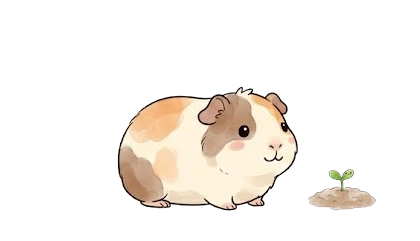
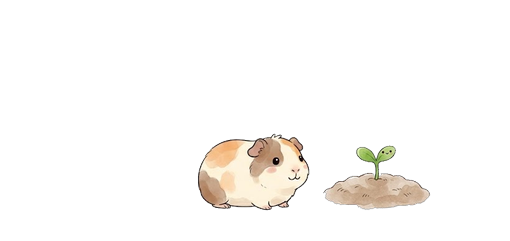
Porcellino: durante il focus la protagonista e' la carota
Il porcellino e' piu' piccolo (0,62) e la carota matura occupa quasi tutta l'altezza della finestra.

Changed region(s): [[0.2786, 0.3485, 0.8976, 0.8714]]

diff --git a/tools/compose_porcellino_growth.py b/tools/compose_porcellino_growth.py
@@ -1,61 +1,58 @@
 #!/usr/bin/env python3
-"""Compone le immagini di crescita del porcellino durante un focus: lui fermo, con la carota accanto.
+"""Compone le immagini di crescita del porcellino durante un focus: la carota che cresce, e lui accanto.
 
     python3 tools/compose_porcellino_growth.py [cartella_giardino]
 
 Legge assets/porcellino/frame1.png (il porcellino a riposo) e le cinque carote del giardino
 (<cartella>/garden_porcellino_1..5.png, sulla tela delle piantine 208x341) e scrive
-<cartella>/growth_porcellino_1..5.png: la tela del porcellino (stessa altezza e stessa linea di terra),
-allargata a destra e a sinistra di quanto serve alla carota. Il porcellino sta al centro: se la finestra si
-allarga attorno ai suoi piedi, lui non si sposta; quando guarda a sinistra l'immagine viene specchiata
-e la carota è comunque davanti a lui.
+<cartella>/growth_porcellino_1..5.png.
 
-La carota è alla stessa scala per tutti gli stadi (la matura alta quanto il porcellino) e sta sulla sua linea
-di terra, appena a destra del muso.
+Il soggetto è la carota: la matura occupa quasi tutta l'altezza della finestra, mentre il porcellino è più
+piccolo e sta a guardarla. La tela è larga abbastanza per la carota a destra e a sinistra di lui, con il
+porcellino al centro: se la finestra si allarga attorno ai suoi piedi, lui non si sposta; quando guarda a
+sinistra l'immagine viene specchiata e la carota è comunque davanti a lui.
 """
 import sys
-import numpy as np
 from PIL import Image
 
 PORCELLINO = "assets/porcellino/frame1.png"
 FOLDER = sys.argv[1] if len(sys.argv) > 1 else "assets/garden"
 GROUND_FRACTION = 0.129          # dove stanno i piedi del porcellino (dal fondo, in frazione dell'altezza)
-GAP = 6                          # spazio fra il muso e la carota
-RIPE_HEIGHT_RATIO = 1.0          # la carota matura alta quanto il porcellino
+FEET_IN_GARDEN_CANVAS = 0.0176   # e dove stanno quelli delle carote nella tela delle piantine
+RIPE_HEIGHT = 196                # px della tela del porcellino (241 di altezza): la carota matura, foglie incluse
+PIG_SCALE = 0.62                 # quanto si rimpicciolisce il porcellino rispetto al suo disegno normale
+GAP = 8                          # spazio fra il muso e la carota
 
 pig = Image.open(PORCELLINO).convert("RGBA")
-pb = pig.getbbox()
-pig_h = pb[3] - pb[1]
-carrots = []
-for i in range(1, 6):
-    img = Image.open(f"{FOLDER}/garden_porcellino_{i}.png").convert("RGBA")
-    carrots.append(img)
+H = pig.height
+W_PIG = pig.width
+pig_small = pig.resize((round(pig.width * PIG_SCALE), round(pig.height * PIG_SCALE)), Image.LANCZOS)
+pb = pig_small.getbbox()
 
-# Scala unica: la carota dell'ultimo stadio alta come il porcellino.
+carrots = [Image.open(f"{FOLDER}/garden_porcellino_{i}.png").convert("RGBA") for i in range(1, 6)]
 ripe = carrots[-1].getbbox()
-scale = RIPE_HEIGHT_RATIO * pig_h / (ripe[3] - ripe[1])
-widths = []
-scaled = []
-for img in carrots:
-    s = img.resize((round(img.width * scale), round(img.height * scale)), Image.LANCZOS)
-    scaled.append(s)
-    bb = s.getbbox()
-    widths.append(bb[2] - bb[0])
-pad = max(widths) + GAP + 6
-W, H = pig.width + 2 * pad, pig.height
+scale = RIPE_HEIGHT / (ripe[3] - ripe[1])        # stessa scala per tutti gli stadi
+scaled = [c.resize((round(c.width * scale), round(c.height * scale)), Image.LANCZOS) for c in carrots]
+carrot_w = max(s.getbbox()[2] - s.getbbox()[0] for s in scaled)
+
+pad = carrot_w + GAP + 6                            # a ogni lato del porcellino, per la carota
+W = W_PIG + 2 * pad
 feet_y = round(H * (1 - GROUND_FRACTION))
-print(f"porcellino {pig.size}, carota in scala {scale:.2f}, margine {pad}px -> tela {W}x{H}")
+print(f"porcellino x{PIG_SCALE}, carota matura {RIPE_HEIGHT}px (scala {scale:.2f}), tela {W}x{H}")
+
+pig_x = (W - pig_small.width) // 2
+pig_y = feet_y - round(pig_small.height * (1 - GROUND_FRACTION))
+pig_right = pig_x + pb[2]
 
 for i, s in enumerate(scaled, 1):
     canvas = Image.new("RGBA", (W, H), (0, 0, 0, 0))
-    canvas.paste(pig, (pad, 0), pig)
+    canvas.paste(pig_small, (pig_x, pig_y), pig_small)
     bb = s.getbbox()
-    # la carota: bordo basso della sua immagine sulla linea di terra del porcellino
-    # (nella tela delle piantine i piedi stanno a 1,76% dal fondo)
-    s_feet = round(s.height * (1 - 0.0176))
-    cx_src = (bb[0] + bb[2]) / 2.0
-    x = pad + pb[2] + GAP + (bb[2] - bb[0]) / 2.0 - cx_src
+    s_feet = round(s.height * (1 - FEET_IN_GARDEN_CANVAS))
+    # il centro della carota a destra del muso, la sua base sulla linea di terra
+    center_src = (bb[0] + bb[2]) / 2.0
+    x = pig_right + GAP + (bb[2] - bb[0]) / 2.0 - center_src
     y = feet_y - s_feet
     canvas.paste(s, (int(round(x)), int(round(y))), s)
     canvas.save(f"{FOLDER}/growth_porcellino_{i}.png")
-print("scritti", [f"{FOLDER}/growth_porcellino_{i}.png" for i in range(1, 6)])
+print("scritti", len(scaled), "file in", FOLDER)

diff --git a/README.md b/README.md
@@ -127,9 +127,10 @@ incrinato, al pulcino, al piccolo con le piume e infine alla cocorita adulta sul
 quinto del focus, come per Pianty. Il fumetto e l'orologio restano nello stesso posto. A fine focus (o se lo
 fermi) torna a camminare. Mentre lo sollevi col mouse compare il solito disegno con le mani.
 
-**Il porcellino durante un focus** sta fermo e guarda crescere una carota al suo fianco (`growth_porcellino_1..5.png`,
-composte da `tools/compose_porcellino_growth.py` con il suo fotogramma a riposo e le carote della sua collezione
-del giardino). La finestra si allarga attorno ai suoi piedi per fare spazio alla carota (e resta nello schermo),
+**Il porcellino durante un focus** sta fermo e guarda crescere una carota al suo fianco. La protagonista è la
+carota (la matura occupa quasi tutta l'altezza), lui è più piccolo e sta a guardarla
+(`growth_porcellino_1..5.png`, composte da `tools/compose_porcellino_growth.py` con il suo fotogramma a riposo
+rimpicciolito e le carote della sua collezione del giardino). La finestra si allarga attorno ai suoi piedi per fare spazio alla carota (e resta nello schermo),
 poi torna com'era. Ogni stadio dura un quinto del focus; **a fine focus, se lo hai completato, mangia la
 carota** con la sua animazione, poi riprende a camminare. Se fermi il focus a metà torna a camminare senza
 mangiare.
